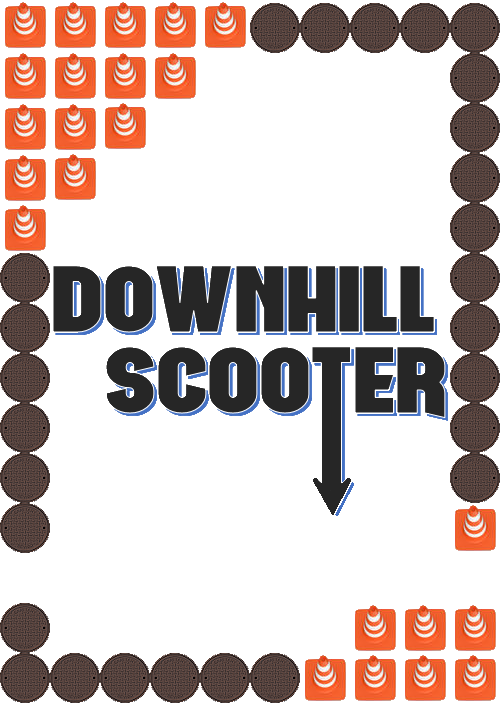
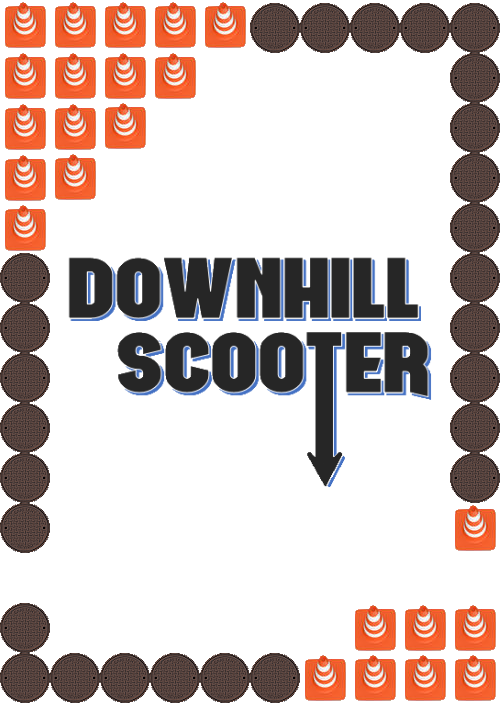
Transition between menu and game and some menu screen changes

Changed region(s): [[0.09, 0.3338, 0.9, 0.7283]]

diff --git a/src/edu/virginia/lab1test/LabOneGame.java b/src/edu/virginia/lab1test/LabOneGame.java
@@ -108,6 +108,7 @@ public class LabOneGame extends Game implements IEventListener {
 	private long lastLoss;
 	private long lastJump;
 	private long lastCollision;
+	private long startTime;
 	private double fluid;
 	private double health;
 	private double score;
@@ -116,7 +117,7 @@ public class LabOneGame extends Game implements IEventListener {
 	private int numTemplatesAdded;	
 	private Random rand;
 	
-	private DisplayObject menuImage = new DisplayObject("Menu Image", "Menu.png");
+	private DisplayObject menuImage = new DisplayObject("Menu Image", "Menu2.png");
 	
 	/**
 	 * Constructor. See constructor in Game.java for details on the parameters given
@@ -175,6 +176,7 @@ public class LabOneGame extends Game implements IEventListener {
 		this.lastLoss = -1;
 		this.lastJump = -1;
 		this.lastCollision = -1;
+		this.startTime = -1;
 		this.fluid = MAX_FLUID;
 		this.health = MAX_HEALTH;
 		this.score = 0;
@@ -189,7 +191,7 @@ public class LabOneGame extends Game implements IEventListener {
 		for (int i = 0; i < 3; i++) {
 			Sprite lineSprite = new Sprite("Line", "Line.png");
 			lineSprite.setPivotPoint(lineSprite.getUnscaledWidth()/2, 0);
-			lineSprite.setPosition(GAME_WIDTH/2, 256*i);
+			lineSprite.setPosition(GAME_WIDTH/2, 50+256*i);
 			this.menuContainer.addChild(lineSprite);
 		}
 		this.menuContainer.addChild(menuImage);
@@ -228,7 +230,7 @@ public class LabOneGame extends Game implements IEventListener {
 		this.physicsContainer.setYAcceleration(-10);
 		this.fluidBar.setScaleX(1);
 		this.healthBar.setScaleX(1);
-		this.lostText.setVisible(false); // What about the text itself???
+		this.lostText.setVisible(false);
 		
 		// Initialize game variables
 		this.displayMenu = false;
@@ -236,6 +238,7 @@ public class LabOneGame extends Game implements IEventListener {
 		this.lastLoss = -1;
 		this.lastJump = System.nanoTime();
 		this.lastCollision = System.nanoTime();
+		this.startTime = System.nanoTime();
 		this.fluid = MAX_FLUID;
 		this.health = MAX_HEALTH;
 		this.score = 0;
@@ -259,8 +262,13 @@ public class LabOneGame extends Game implements IEventListener {
 		this.handleEvent(null);
 
 		// Swap the gameContainer with the menuContainer
-		this.removeChild(menuContainer);
 		this.addChild(gameContainer);
+		Tween menuTween = new Tween(menuContainer, new TweenTransition(TweenTransitionType.LINEAR));
+		menuTween.animate(TweenableParam.Y, 0, -750, 1000);
+		tweenJuggler.add(menuTween);
+		Tween gameTween = new Tween(gameContainer, new TweenTransition(TweenTransitionType.LINEAR));
+		gameTween.animate(TweenableParam.Y, 750, 0, 1000);
+		tweenJuggler.add(gameTween);
 	}
 	
 	public void endGame() {
@@ -285,7 +293,10 @@ public class LabOneGame extends Game implements IEventListener {
 		
 		// Add the menu container as a child
 		this.removeChild(gameContainer);
-		this.addChild(menuContainer);
+		//this.addChild(menuContainer);
+		Tween menuTween = new Tween(menuContainer, new TweenTransition(TweenTransitionType.LINEAR));
+		menuTween.animate(TweenableParam.Y, 750, 0, 1000);
+		tweenJuggler.add(menuTween);
 	}
 	
 	public void addTemplate(String fileName, double yOffset) {
@@ -569,15 +580,27 @@ public class LabOneGame extends Game implements IEventListener {
 			} else {
 		
 				if (this.lost) {
-					if ((System.nanoTime() - this.lastLoss) / 1000000 > 3000) {
+					if ((System.nanoTime() - this.lastLoss) / 1000000 > 5000) {
 						displayMenu = true;
+						// Calculate average speed multiplier
+						double averageVelocity = this.physicsContainer.getYPosition() / ((System.nanoTime() - this.startTime) / 1000000000);
+						double scoreMultiplier = averageVelocity / INITIAL_VELOCITY;
+						double finalScore = this.score*scoreMultiplier;
+						System.out.println("Initial Score: " + this.score + "   Average Velocity: " + averageVelocity + "   Multiplier: " + scoreMultiplier + "   Final Score: " + finalScore);
+						/* TODO: Display score information
+						 * 
+						 */
+						/* TODO: Update high scores here
+						 * 
+						 */
 						this.endGame();
 					} else {
 						return;
 					}
 				}
 				
-				this.score -= this.physicsContainer.getYVelocity();
+				//this.score -= this.physicsContainer.getYVelocity();
+				this.score = -this.physicsContainer.getYPosition();
 				this.scoreText.setText((int)this.score+"");
 					
 				/** 

diff --git a/src/edu/virginia/engine/util/TweenTransition.java b/src/edu/virginia/engine/util/TweenTransition.java
@@ -14,6 +14,8 @@ public class TweenTransition {
 				return linear(percentDone);
 			case QUADRATIC:
 				return quadratic(percentDone);
+			case CUBIC:
+				return cubic(percentDone);
 			default:
 				return percentDone;
 		}
@@ -25,6 +27,10 @@ public class TweenTransition {
 	
 	private double quadratic(double percentDone) {
 		return percentDone*percentDone;
+	}
+	
+	private double cubic(double percentDone) {
+		return percentDone*percentDone*percentDone;
 	}
 	
 }

diff --git a/src/edu/virginia/engine/util/TweenTransitionType.java b/src/edu/virginia/engine/util/TweenTransitionType.java
@@ -2,5 +2,6 @@ package edu.virginia.engine.util;
 
 public enum TweenTransitionType {
 	LINEAR,
-	QUADRATIC
+	QUADRATIC,
+	CUBIC
 }
